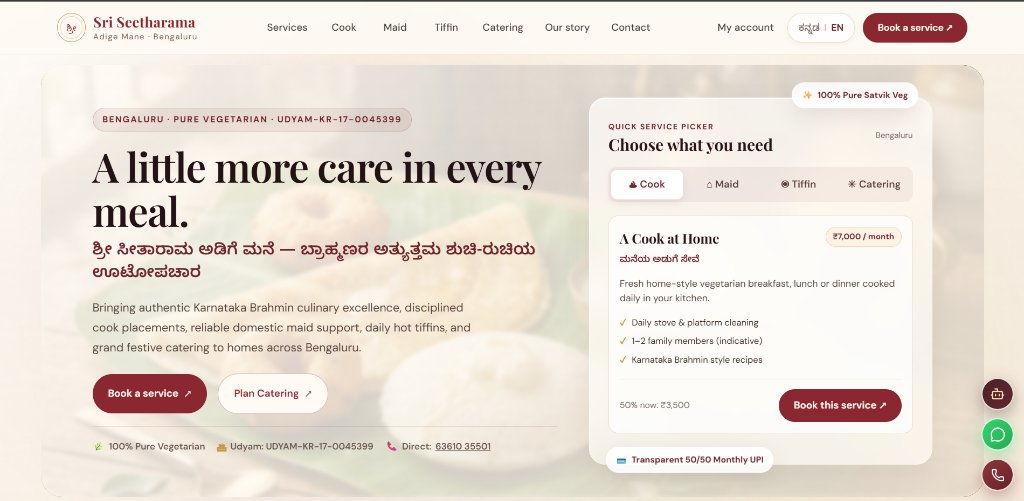
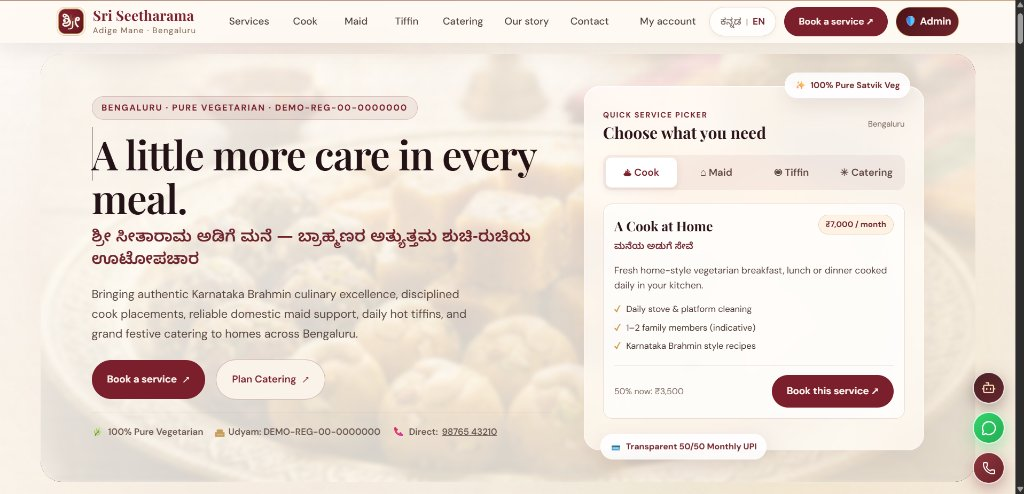
feat: update Sri Seetharama Adige Mane bilingual platform case study with high-res screenshot and simulated REST architecture

diff --git a/lib/projects.ts b/lib/projects.ts
@@ -915,24 +915,82 @@ export const projects: Project[] = [
   },
   {
     slug: "sri-seetarama",
-    title: "Sri Seetharama Adige Mane",
-    tagline: "Authentic Karnataka Brahmin culinary, domestic maid support, daily tiffin, and grand catering services platform in Bengaluru",
+    title: "Sri Seetharama Adige Mane — Authentic Brahmin Culinary & Domestic Services",
+    tagline: "Bilingual (English / ಕನ್ನಡ) pure-vegetarian culinary, domestic help, daily tiffin, and traditional catering platform with zero-backend REST simulation",
     category: "company",
     status: "realtime",
-    role: "Developer, PrimePro.ai",
-    period: "2024 – 2025",
+    backend: "simulated-api",
+    role: "Full-Stack Lead Engineer / Architect, PrimePro.ai",
+    period: "Commercial Project (PrimePro.ai)",
     cover: "/media/sites/sri-seetharama.png",
     accent: "#991B1B",
     accent2: "#D97706",
-    features: [
-      "Quick Service Picker featuring tabbed modules for Cook at Home, Domestic Maid, Daily Tiffin, and Grand Catering",
-      "Transparent pricing calculator with monthly package tiers (e.g. Cook at Home from ₹7,000/month) and 50/50 transparent monthly UPI payment schedule",
-      "100% Pure Satvik vegetarian culinary presentations celebrating authentic Karnataka Brahmin recipes and hygienic food preparation",
-      "Verified UDYAM-registered enterprise portal (UDYAM-KR-17-0045399) with direct customer booking phone hotline (63610 35501)",
-      "Bilingual interface (Kannada & English) with streamlined 'Book a Service' and 'Plan Catering' reservation funnels",
+    featured: true,
+    stack: [
+      "React 19",
+      "TypeScript",
+      "Vite 8 (Multi-Page Hybrid)",
+      "Tailwind CSS 4",
+      "Custom Glassmorphism CSS",
+      "Framer Motion",
+      "Lucide React",
+      "Custom Bilingual Engine (EN / ಕನ್ನಡ)",
+      "LocalStorage REST Engine (mockApi.ts)",
+      "Simulated Latency (300-520ms)",
+      "Manual UPI Verification Modal",
+      "Vercel",
     ],
-    stack: ["React", "Node.js", "Express", "Tailwind CSS", "UPI Invoicing", "Vercel"],
-    links: {},
+    features: [
+      "Multi-Page & React Hybrid Architecture: Public multi-page discovery pages (HTML + Vanilla ES Modules) integrated with React 19 + TypeScript booking wizards",
+      "Full Bilingual Localization (English & ಕನ್ನಡ): Custom lightweight translation engine (client/i18n.js) providing instant runtime language toggling across every view",
+      "Multi-Step Service Booking Engine: Dedicated interactive wizards for Cook at Home, Home Help / Maid, Daily Tiffin, and Event Catering with Bengaluru area location picker",
+      "Simulated UPI Payment Gateway: Manual UPI QR and UTR reference submission modal (ManualUpiPaymentModal.tsx) with transparent 50/50 monthly payment tracking",
+      "17-Section Admin Control Center: Overview Dashboard with 6-month bookings and revenue bar charts, worker assignment, payment ledger, menu editor, and customer CRM",
+      "Zero-Backend REST Simulation: client/src/demo/mockApi.ts simulating 300–520ms network latency and storing state in localStorage ('ssam_demo_db_v1') with 1-click Reset Demo",
+      "1-Click Role Switching: Seamless instant role swapping between Customer Account Portal (user@demo.com / User@123) and Owner Admin Control Center (admin@demo.com / Admin@123)",
+      "Resilient UX Architecture: Wrapped in React Error Boundaries (DemoErrorBoundary) with local FileReader image upload preview and mobile drawer navigation",
+    ],
+    highlights: [
+      "100% frontend-only interactive demo running on Vercel with zero database spin-up delay",
+      "Custom bilingual localization engine (English / ಕನ್ನಡ) with instant runtime state switching",
+      "17-section Admin Control Center with KPI metrics and 6-month revenue visualization",
+      "Multi-step React 19 booking wizards for Cook, Maid, Tiffin, and Event Catering",
+      "Simulated UPI QR/UTR payment verification with transparent 50/50 payment split",
+    ],
+    impact:
+      "Consolidated traditional Brahmin culinary bookings, domestic maid staffing, and festive catering quotes into a single bilingual platform with sub-second page transitions and zero-backend client-side persistence.",
+    realVsSimulated:
+      "Simulated REST Architecture: Engineered with a client-side mockApi.ts layer utilizing localStorage ('ssam_demo_db_v1') and 300–520ms simulated latency, enabling recruiters to test full booking workflows, worker assignment, and payment verification on Vercel (https://sri-seetharama.vercel.app/).",
+    challenges: [
+      {
+        problem:
+          "Hosting a full-stack booking system with relational database and worker dispatch on serverless tiers introduced database sleep latency and setup hurdles for reviewers.",
+        solution:
+          "Engineered client/src/demo/mockApi.ts with an in-memory and localStorage CRUD engine ('ssam_demo_db_v1') pre-seeded with realistic Bengaluru datasets, simulating realistic 300-520ms network latency.",
+      },
+      {
+        problem:
+          "Seamless bilingual localization across complex multi-step booking forms without bloated third-party i18n framework bundles.",
+        solution:
+          "Built a lightweight, custom translation engine in client/i18n.js supporting real-time runtime toggling between English and Kannada (ಕನ್ನಡ) with zero re-render flicker.",
+      },
+      {
+        problem:
+          "Combining a multi-page HTML marketing storefront with modern interactive React 19 booking components.",
+        solution:
+          "Architected a hybrid Vite 8 build pipeline with page-shell.js shared navigation layouts mounting isolated React TypeScript booking roots wrapped in DemoErrorBoundary.",
+      },
+      {
+        problem:
+          "Handling manual UPI QR code and UTR transaction verification without banking gateway webhooks.",
+        solution:
+          "Created ManualUpiPaymentModal.tsx capturing user-submitted UTR reference numbers, saving proof to localStorage, and populating an admin verification queue.",
+      },
+    ],
+    links: {
+      live: "https://sri-seetharama.vercel.app/",
+      repo: "https://github.com/Dhanush596/SriSeetharama",
+    },
   },
   {
     slug: "hanger-commerce",
